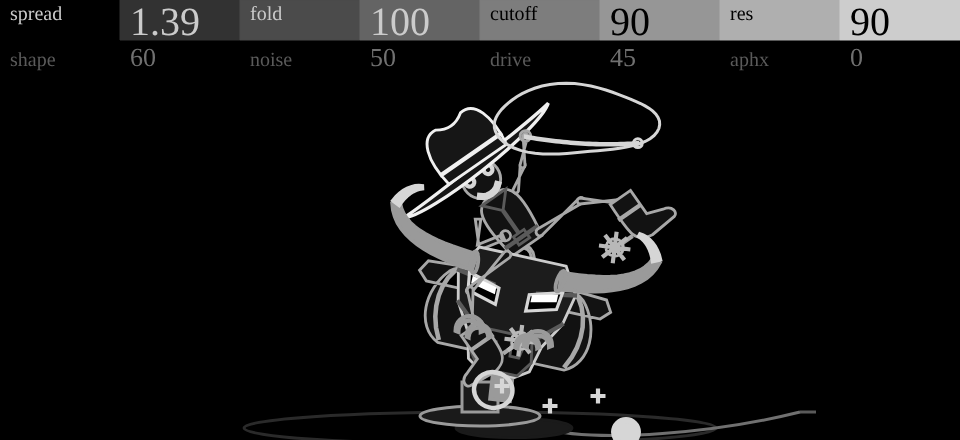
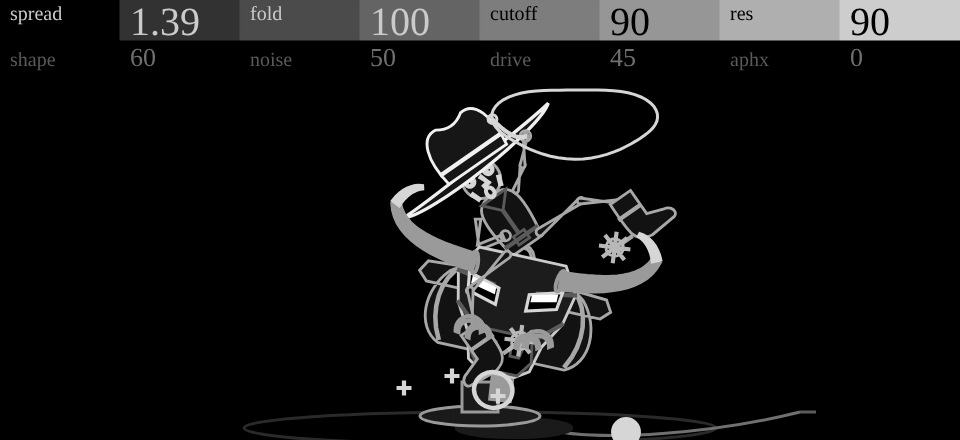
opxy toro: the cowboy's face
A thin smile while calm, an O mouth that opens wider the harder he is
thrown (as on the OP-1), pupils, a nose and cheek creases. The vents join
the plate's decal node to free the two mouth nodes.

Claude-Session: https://claude.ai/code/session_01NVuADSekPuepRXPtea7j15

diff --git a/opxy/machines/toro/gen_panel.py b/opxy/machines/toro/gen_panel.py
@@ -19,15 +19,15 @@ Node map (keep in step with display.cpp):
   2..9    the two-page header's bar steps (SDK)
   10      shadow                              11      rod (the ram)
   12      body: barrel, seams, ears, handle   13, 14  horns L, R           15, 16  horn tips       17, 18  horn root rings
-  19      faceplate + muzzle                  20      faceplate decals (brow and cheek lines)   21  vents
+  19      faceplate + muzzle                  20      faceplate decals (brow and cheek lines, the vents)   21  his smile
   22, 23  eye slits L, R                      24, 25  slit highlights L, R (lit on a note)
   26      nose ring                           27..30  steam puffs          31..36  sparks (NOIS)   37  hose pulse
   38      cowboy torso + rein arm             39      belt, buckle, bandana crease
-  40      his head                            41      his face (eyes, brows, mouth; scaled wide when thrown)
+  40      his head                            41      his eyes and brows (scaled wide when thrown)
   42      hat brim                            43      hat crown
   44      lasso upper arm                     45      lasso forearm + hand
   46, 47  thighs L, R                         48, 49  shins L, R           50, 51  spur wheels L, R
-  52..59  APHX tear slices                    60      the lasso knot       61, 62  boots L, R   63  spare
+  52..59  APHX tear slices                    60      the lasso knot       61, 62  boots L, R   63  his O mouth
 Copyright (c) 2026 briannhinton. MIT."""
 import math
 
@@ -167,9 +167,15 @@ def main():
     hx, hy = c(0, -81.5)
     o.append(node(40, ellipse(hx, hy, 6.6 * CS, 6.6 * CS), BODY, SEC, 1.5, 640, 320))
     eyes = ' '.join(ellipse(2.5 * sd * CS, -1.1 * CS, 1.0 * CS, 1.0 * CS) for sd in (-1, 1))
+    pupils = ' '.join(ellipse(2.7 * sd * CS, -0.9 * CS, 0.3 * CS, 0.3 * CS) for sd in (-1, 1))
     brows = ' '.join(ribbon([(1.2 * sd * CS, -3.5 * CS), (3.8 * sd * CS, -2.7 * CS)], 0.8) for sd in (-1, 1))
-    mouth = bez_ribbon((-2.6 * CS, 2.7 * CS), (-1.3 * CS, 4.2 * CS), (1.3 * CS, 4.2 * CS), (2.6 * CS, 2.7 * CS), 1.0, 6)
-    o.append(node(41, ' '.join([eyes, brows, mouth]), None, LITE, 1.2, 640, 320))
+    nose = ribbon([(0.2 * CS, -0.6 * CS), (0.9 * CS, 1.3 * CS), (-0.3 * CS, 1.5 * CS)], 0.3)
+    cheeks = ' '.join(ribbon([(3.6 * sd * CS, 1.6 * CS), (3.0 * sd * CS, 3.2 * CS)], 0.3) for sd in (-1, 1))
+    o.append(node(41, ' '.join([eyes, pupils, brows, nose, cheeks]), None, LITE, 1.0, 640, 320))
+    # his mouth: a smile (21) while calm, an O (63) as the bull throws him; both pivot at the head centre
+    smile = bez_ribbon((-2.6 * CS, 2.7 * CS), (-1.3 * CS, 4.2 * CS), (1.3 * CS, 4.2 * CS), (2.6 * CS, 2.7 * CS), 0.25, 8)
+    o.append(node(21, smile, None, LITE, 1.1, 640, 320))
+    o.append(node(63, ellipse(0, 3.5 * CS, 0.9 * CS, 1.2 * CS), None, LITE, 1.2, 640, 320))
     # hat: brim (42) a lens, pivot at the crown's base; crown (43) the dome and its band, same pivot
     def hs(x, y):
         return (x * HS * CS, (y - HATY) * HS * CS)
@@ -187,10 +193,10 @@ def main():
     head = [(-20, -22), (20, -22), (27, -10), (24, 4), (17, 16), (14, 28), (8, 32), (-8, 32), (-14, 28), (-17, 16), (-24, 4), (-27, -10)]
     muzzle = [(-12, 13), (12, 13), (14, 24), (9, 31), (-9, 31), (-14, 24)]
     o.append(node(19, poly([h(*p) for p in head]), PLATE, EDGE, 2, 640, 320))
-    o.append(node(20, ' '.join([poly([h(*p) for p in muzzle])] + [ribbon([h(27 * sd, -10), h(10 * sd, -7)], 0.9) for sd in (-1, 1)]
-                                + [ribbon([h(24 * sd, 4), h(14 * sd, 13)], 0.7) for sd in (-1, 1)]), MUZ, DEC, 1.2, 640, 320))
-    # vents (21): two dark slots in the muzzle
-    o.append(node(21, ' '.join(poly([h(x * sd, y) for x, y in [(3.5, 18), (9, 18), (8, 23), (4, 23)]]) for sd in (-1, 1)), '#000000', DEC, 0.8, 640, 320))
+    # vents: two slots in the muzzle, a separate path so they read as cut-outs
+    vents = ' '.join(poly([h(x * sd, y) for x, y in [(3.5, 18), (9, 18), (8, 23), (4, 23)]]) for sd in (-1, 1))
+    o.append(node(20, ' '.join([poly([h(*p) for p in muzzle]), vents] + [ribbon([h(27 * sd, -10), h(10 * sd, -7)], 0.9) for sd in (-1, 1)]
+                                + [ribbon([h(24 * sd, 4), h(14 * sd, 13)], 0.7) for sd in (-1, 1)]), '#000000', DEC, 1.2, 640, 320))
     # eye slits (22, 23): the OP-1's quads, pivot at each slit's middle; a scale opens them. Highlights (24, 25) inside.
     for i, sd in ((22, -1), (23, 1)):
         q = [(21, -9), (8, -5.2), (8, 1.5), (20, -1.8)]
@@ -267,8 +273,6 @@ def main():
         o.append(node(52 + i, 'M0,-0.6 L18,-0.6 L18,0.6 L0,0.6 Z', LITE, LITE, 0.5, 640, 320))
     # the lasso knot (60) and spares
     o.append(node(60, ellipse(0, 0, 2.2, 2.2), None, LITE, 1.5, 640, 320))
-    for i in range(63, 64):
-        o.append(node(i, 'M-1,-1 L1,-1 L1,1 L-1,1 Z', None, DEC, 1, 640, 320))
 
     # ---- palette: 0..7 a near-black fill with an outline from dim to white (bodies), 8..15 solid greys (lit parts) ----
     outlines = ['#2A2A2A', '#3C3C3C', '#5A5A5A', '#707070', '#8C8C8C', '#A8A8A8', '#CBCBCB', '#F0F0F0']

diff --git a/opxy/machines/toro/display.cpp b/opxy/machines/toro/display.cpp
@@ -26,9 +26,9 @@ const i32 CX = 240, BASE = 208, TOP0 = 186;          // the ram's foot and its r
 const i32 RIG = 973;                                  // rig units -> pixels, Q10 (0.95)
 const i32 CS = 1587;                                  // the cowboy's scale, Q10 (1.55)
 const i32 HK = 1198;                                  // the head's scale, Q10 (1.17)
-enum { N_LASSO = 0, N_ROPE = 1, N_HDR = 2, N_SHADOW = 10, N_ROD = 11, N_BODY = 12, N_HORN = 13, N_PLATE = 19, N_DECAL = 20, N_VENTS = 21,
-       N_EYE = 22, N_HILITE = 24, N_RING = 26, N_STEAM = 27, N_SPARK = 31, N_PULSE = 37, N_TORSO = 38, N_BELT = 39, N_HEAD = 40, N_FACE = 41,
-       N_BRIM = 42, N_CROWN = 43, N_UPPER = 44, N_FORE = 45, N_THIGH = 46, N_SHIN = 48, N_SPUR = 50, N_TEAR = 52, N_KNOT = 60, N_BOOT = 61, N_SPARE = 63 };
+enum { N_LASSO = 0, N_ROPE = 1, N_HDR = 2, N_SHADOW = 10, N_ROD = 11, N_BODY = 12, N_HORN = 13, N_PLATE = 19, N_DECAL = 20,
+       N_EYE = 22, N_HILITE = 24, N_SMILE = 21, N_OMOUTH = 63, N_RING = 26, N_STEAM = 27, N_SPARK = 31, N_PULSE = 37, N_TORSO = 38, N_BELT = 39, N_HEAD = 40, N_FACE = 41,
+       N_BRIM = 42, N_CROWN = 43, N_UPPER = 44, N_FORE = 45, N_THIGH = 46, N_SHIN = 48, N_SPUR = 50, N_TEAR = 52, N_KNOT = 60, N_BOOT = 61 };
 /* palette: 0..7 body entries (near-black fill, outline dim..white); 8..15 solid greys */
 enum { B_DIM = 1, B_DEC = 2, B_MID = 3, B_SEC = 5, B_EDGE = 6, B_LITE = 7, S_BLACK = 8, S_DARK = 9, S_DEC = 10, S_MID = 11, S_SEC = 12, S_EDGE = 13, S_LITE = 14, S_WHITE = 15 };
 
@@ -128,7 +128,6 @@ inline void display(DisplayState& st, const Input& in, Frame& fr)
     place(fr, N_BODY, cx * unit, top * unit, RIG, B_SEC, stroke); turn(fr, N_BODY, rotation(lean));
     place(fr, N_PLATE, cx * unit, top * unit, RIG, B_EDGE, stroke); turn(fr, N_PLATE, rotation(lean));
     place(fr, N_DECAL, cx * unit, top * unit, RIG, B_DEC, stroke); turn(fr, N_DECAL, rotation(lean));
-    place(fr, N_VENTS, cx * unit, top * unit, RIG, B_DEC, stroke); turn(fr, N_VENTS, rotation(lean));
 
     /* SPREAD: the horns grow and swing outward; SHAPE curls the tips inward. One curved tube each, a tip on its end */
     for (int sd = -1; sd <= 1; sd += 2) {
@@ -234,6 +233,9 @@ inline void display(DisplayState& st, const Input& in, Frame& fr)
         /* his face: eyes wide with CUT and wider as he is thrown (a scale about the head's centre) */
         cw.at(0, -81);
         place(fr, N_FACE, cw.x, cw.y, (RIG * (900 + (cut * 300 >> 10) + (m * 450 >> 10))) >> 10, S_LITE, stroke); turn(fr, N_FACE, rotation(tilt));
+        /* his mouth: a smile while calm, an O that opens wider the harder he is thrown */
+        if (m < 307) { place(fr, N_SMILE, cw.x, cw.y, RIG, S_LITE, stroke); turn(fr, N_SMILE, rotation(tilt)); hide(fr, N_OMOUTH); }
+        else { place(fr, N_OMOUTH, cw.x, cw.y, (RIG * (768 + (m * 900 >> 10))) >> 10, S_LITE, stroke); turn(fr, N_OMOUTH, rotation(tilt)); hide(fr, N_SMILE); }
         /* hat: brim wider with SPREAD, lifting off on the hardest throws */
         {
             const i32 hl = ((((m * e) >> 10) * (2048 + ((1536 * wild) >> 10))) >> 10) + 600;    /* cowboy units x 1024 */
@@ -313,6 +315,5 @@ inline void display(DisplayState& st, const Input& in, Frame& fr)
             place(fr, N_TEAR + i, x * unit + dx, y * unit, len, S_WHITE, fill_and_stroke);
         }
     }
-    for (u32 i = N_SPARE; i < Frame::node_count; ++i) hide(fr, i);
 }
 }
